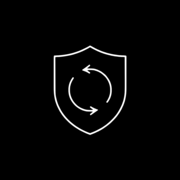
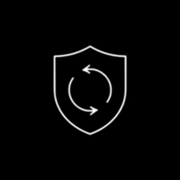
feat: integrate Laravel PWA support with new assets and configuration
- Add silviolleite/laravelpwa package to enable Progressive Web App features.
- Create configuration file for PWA settings and manifest.
- Implement service worker for offline capabilities and network handling.
- Add various icon and splash screen images for PWA compliance.
- Update application views to include PWA directives and manifest link.

diff --git a/public/serviceworker.js b/public/serviceworker.js
@@ -1,0 +1,36 @@
+// Service Worker - NO CACHING MODE
+// Always fetches from network to ensure latest version
+
+// Skip waiting to activate immediately
+self.addEventListener("install", event => {
+    self.skipWaiting();
+});
+
+// Clear all existing caches on activate
+self.addEventListener('activate', event => {
+    event.waitUntil(
+        caches.keys().then(cacheNames => {
+            return Promise.all(
+                cacheNames.map(cacheName => caches.delete(cacheName))
+            );
+        }).then(() => {
+            return self.clients.claim();
+        })
+    );
+});
+
+// Always fetch from network - NO CACHING
+self.addEventListener("fetch", event => {
+    // Always fetch from network, bypass cache completely
+    event.respondWith(
+        fetch(event.request).catch(() => {
+            // Only if network fails completely, show offline message
+            if (event.request.mode === 'navigate') {
+                return new Response('You are offline. Please check your connection.', {
+                    headers: { 'Content-Type': 'text/html' }
+                });
+            }
+            return new Response('Network error', { status: 408 });
+        })
+    );
+});

diff --git a/config/laravelpwa.php b/config/laravelpwa.php
@@ -1,0 +1,63 @@
+<?php
+
+return [
+    'name' => 'LaravelPWA',
+    'manifest' => [
+        'name' => env('APP_NAME', 'Respaldo'),
+        'short_name' => 'Respaldo',
+        'start_url' => '/',
+        'background_color' => '#ffffff',
+        'theme_color' => '#0a0a0a',
+        'display' => 'standalone',
+        'orientation' => 'any',
+        'status_bar' => 'black',
+        'icons' => [
+            '72x72' => [
+                'path' => '/images/icons/icon-72x72.png',
+                'purpose' => 'any',
+            ],
+            '96x96' => [
+                'path' => '/images/icons/icon-96x96.png',
+                'purpose' => 'any',
+            ],
+            '128x128' => [
+                'path' => '/images/icons/icon-128x128.png',
+                'purpose' => 'any',
+            ],
+            '144x144' => [
+                'path' => '/images/icons/icon-144x144.png',
+                'purpose' => 'any',
+            ],
+            '152x152' => [
+                'path' => '/images/icons/icon-152x152.png',
+                'purpose' => 'any',
+            ],
+            '192x192' => [
+                'path' => '/images/icons/icon-192x192.png',
+                'purpose' => 'any',
+            ],
+            '384x384' => [
+                'path' => '/images/icons/icon-384x384.png',
+                'purpose' => 'any',
+            ],
+            '512x512' => [
+                'path' => '/images/icons/icon-512x512.png',
+                'purpose' => 'any',
+            ],
+        ],
+        'splash' => [
+            '640x1136' => '/images/icons/splash-640x1136.png',
+            '750x1334' => '/images/icons/splash-750x1334.png',
+            '828x1792' => '/images/icons/splash-828x1792.png',
+            '1125x2436' => '/images/icons/splash-1125x2436.png',
+            '1242x2208' => '/images/icons/splash-1242x2208.png',
+            '1242x2688' => '/images/icons/splash-1242x2688.png',
+            '1536x2048' => '/images/icons/splash-1536x2048.png',
+            '1668x2224' => '/images/icons/splash-1668x2224.png',
+            '1668x2388' => '/images/icons/splash-1668x2388.png',
+            '2048x2732' => '/images/icons/splash-2048x2732.png',
+        ],
+        'shortcuts' => [],
+        'custom' => [],
+    ],
+];

diff --git a/resources/views/app.blade.php b/resources/views/app.blade.php
@@ -39,6 +39,8 @@
         <link rel="preconnect" href="https://fonts.bunny.net">
         <link href="https://fonts.bunny.net/css?family=instrument-sans:400,500,600" rel="stylesheet" />
 
+        @laravelPWA
+
         @vite(['resources/js/app.ts', "resources/js/pages/{$page['component']}.vue"])
         @inertiaHead
     </head>
